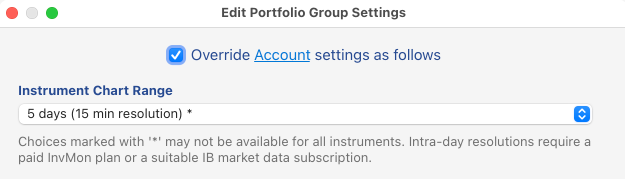
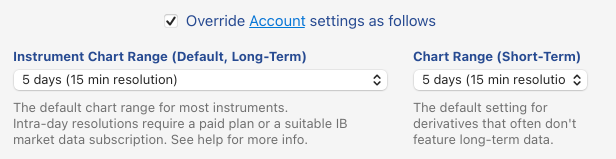
Updated rating-agent tutorial

diff --git a/doc/rating-agent/rating-agent.md b/doc/rating-agent/rating-agent.md
@@ -49,7 +49,7 @@ Open the portfolio group's *Settings…* dialog (context menu on the group in th
 
 ![Instrument Chart Range](assets/040-edit-portfolio-group-settings.png)
 
-**5 days (15 min resolution)** gives the agent intra-day price bars: `get_price_history` defaults to this range, and short periods return quotes that are only minutes old — the freshness the skill requires before rating an instrument. 
+Setting the Default Chart Range (left) to **5 days (15 min resolution)** gives the agent intra-day price bars: `get_price_history` defaults to this range, and short periods return quotes that are only minutes old — the freshness the skill requires before rating an instrument. 
 
 ### Rebalancing settings
 
